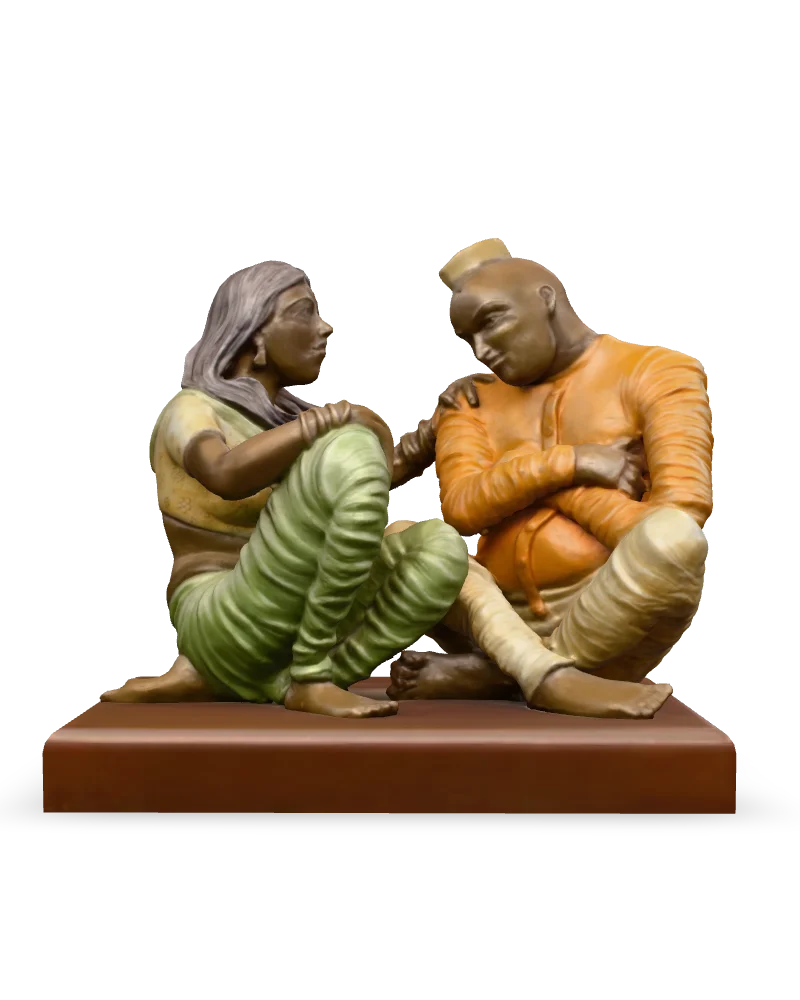
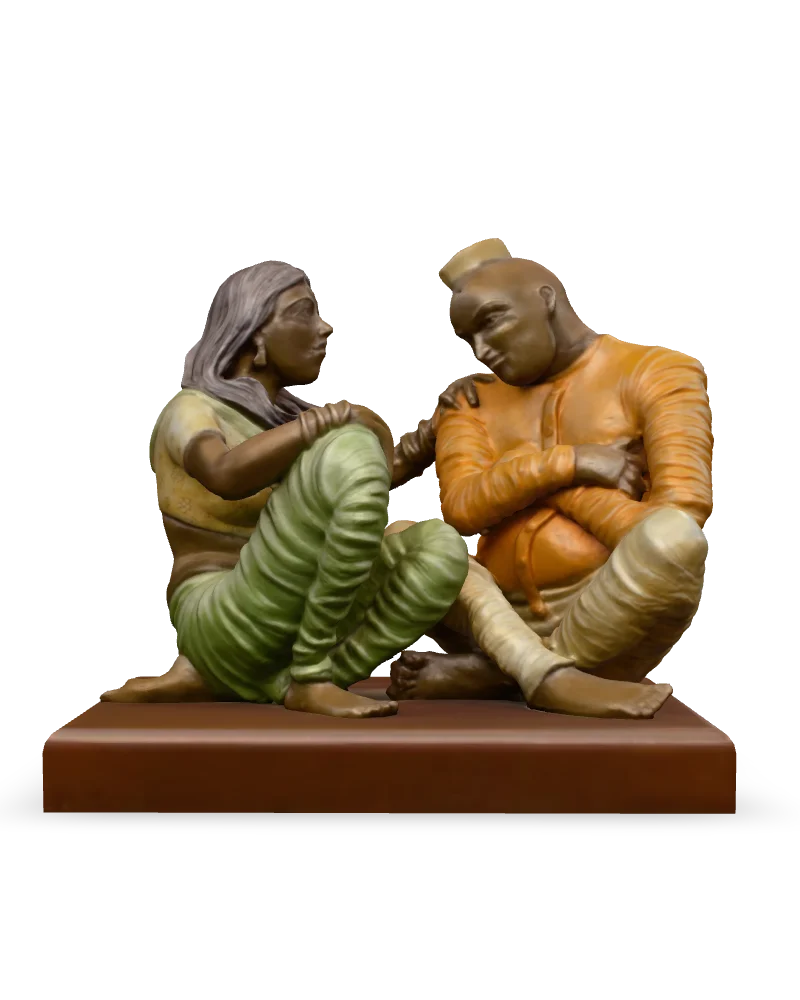
Less light on the Couple
Light 0.7, reflections 0.51; thumbnail remade.

diff --git a/lib/sculptures.ts b/lib/sculptures.ts
@@ -607,9 +607,9 @@ export const sculptures: Sculpture[] = [
     title: "Couple",
     description: "",
     artistSlug: "jogen-chowdhury",
-    thumbnail: "/thumbnails/chowdhury-couple.webp?v=3",
+    thumbnail: "/thumbnails/chowdhury-couple.webp?v=4",
     modelUrl: "/sculptures/chowdhury-couple.glb",
-    look: { metalness: 0.2, roughness: 1.6, reflections: 0.6 },
+    look: { metalness: 0.2, roughness: 1.6, reflections: 0.51, light: 0.7 },
     facing: 180,
     material: "Bronze",
     year: "",

diff --git a/docs/lighting-progress.md b/docs/lighting-progress.md
@@ -31,7 +31,8 @@ User's taste: **matte and natural, not shiny**. The user judges each work by eye
 | Painted heads | `{ metalness: 0, roughness: 2, reflections: 0.5, light: 0.9 }` | Ruby Saree, Polka-Dot Collar, Nose Ring |
 | … dimmer | same, `light: 0.65` | Dark Green Saree, Yellow Saree |
 | … brighter | same, `light: 1.2` | Side Braid |
-| Painted figures | `{ metalness: 0.2, roughness: 1.6, reflections: 0.6 }` | 10 Khanna bandsmen, Couple, Ganesha, Meri Patang |
+| Painted figures | `{ metalness: 0.2, roughness: 1.6, reflections: 0.6 }` | 10 Khanna bandsmen, Ganesha, Meri Patang |
+| … dimmer | same, `reflections: 0.51, light: 0.7` | Couple |
 | … brighter | same, `light: 1.3` | Dotted Saree, Man with Mridangam |
 | Blue Saree | `{ metalness: 0.2, roughness: 1.6, reflections: 1.2, light: 1.6 }` | dark bronze skin needed lifting |
 | Blue Turban | `{ metalness: 0.15, roughness: 1.3, reflections: 1.2, light: 1.3, specular: 0.6, sideLights: 1 }` | black face showed no form |
